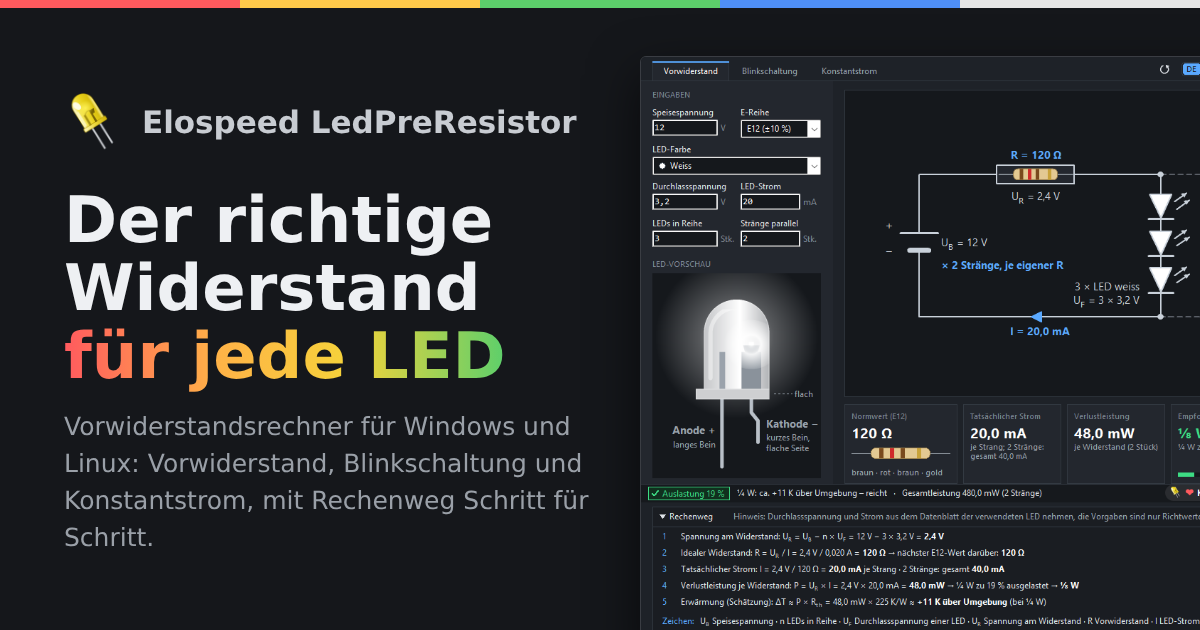
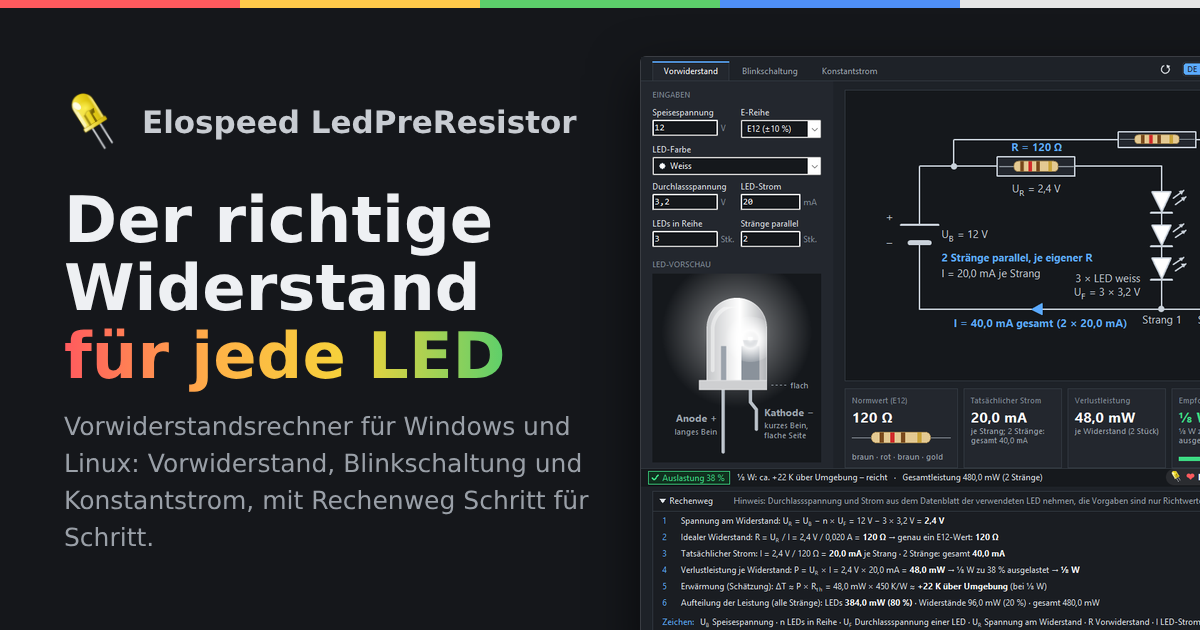
Projektseite: Vorschaubilder und Bildtexte 2.5.2

diff --git a/site/index.html b/site/index.html
@@ -94,7 +94,7 @@
     </ul>
     <figure class="shot hero-shot">
       <div class="bar"><img src="img/icon-32.png" alt=""><span>LedPreResistor · Elospeed 2.5.2</span><i class="min"></i><i class="max"></i><i class="cls"></i></div>
-      <img src="img/ledpreresistor-main-en.png" width="900" height="842" alt="LedPreResistor main window: 12 V supply, three white LEDs in series, 20 mA, two strings in parallel. Schematic with 120 ohm resistor, three LED symbols and a dashed second string marked times 2, and the calculation step by step">
+      <img src="img/ledpreresistor-main-en.png" width="900" height="842" alt="LedPreResistor main window: 12 V supply, three white LEDs in series, 20 mA, two strings in parallel. Schematic with both strings, each with a 120 ohm resistor and three LEDs, 20 mA per string and 40 mA in total, and the calculation steps below">
     </figure>
     <figcaption>English and German interface: it follows your Windows language, and the DE/EN switch at the top right changes it at any time.</figcaption>
   </div>
@@ -131,7 +131,7 @@
     </div>
     <figure class="shot">
       <div class="bar"><img src="img/icon-32.png" alt=""><span>LedPreResistor · Elospeed 2.5.2</span><i class="min"></i><i class="max"></i><i class="cls"></i></div>
-      <img src="img/ledpreresistor-warning-en.png" width="900" height="842" alt="LedPreResistor with 9 V, red LED, 25 mA: 330 ohm, 148.5 mW, a quarter watt resistor would be 59 percent loaded, the status bar shows a yellow warning and recommends half a watt" loading="lazy">
+      <img src="img/ledpreresistor-warning-en.png" width="900" height="842" alt="LedPreResistor with 9 V, red LED, 25 mA: 330 ohm, 148.5 mW, half a watt recommended and loaded to 30 percent; a quarter watt resistor would be loaded to 59 percent" loading="lazy">
     </figure>
   </div>
 </section>
@@ -152,7 +152,7 @@
     </div>
     <figure class="shot">
       <div class="bar"><img src="img/icon-32.png" alt=""><span>LedPreResistor · Elospeed 2.5.2</span><i class="min"></i><i class="max"></i><i class="cls"></i></div>
-      <img src="img/ledpreresistor-blink-en.png" width="900" height="842" alt="LedPreResistor blink circuit tab: NE555 astable with R1 1 kilohm, R2 68 kilohm and 10 microfarad at 12 V, 1.05 Hz, 50.4 percent duty cycle, series resistor 390 ohm for a white LED, schematic and calculation steps" loading="lazy">
+      <img src="img/ledpreresistor-blink-en.png" width="900" height="842" alt="LedPreResistor blink circuit tab: NE555 astable with R1 1 kilohm, R2 68 kilohm and a 10 microfarad / 16 V capacitor at 12 V, 1.05 Hz, 50.4 percent duty cycle, series resistor 390 ohm for a white LED, schematic and calculation steps" loading="lazy">
     </figure>
   </div>
 </section>

diff --git a/site/de/index.html b/site/de/index.html
@@ -95,7 +95,7 @@
     </ul>
     <figure class="shot hero-shot">
       <div class="bar"><img src="../img/icon-32.png" alt=""><span>LedPreResistor · Elospeed 2.5.2</span><i class="min"></i><i class="max"></i><i class="cls"></i></div>
-      <img src="../img/ledpreresistor-main.png" width="900" height="842" alt="Hauptfenster von LedPreResistor: 12 V, drei weisse LEDs in Reihe, 20 mA, zwei Stränge parallel. Schaltplan mit 120-Ohm-Widerstand, drei LED-Symbolen und gestricheltem zweitem Strang mit mal 2, darunter der Rechenweg">
+      <img src="../img/ledpreresistor-main.png" width="900" height="842" alt="Hauptfenster von LedPreResistor: 12 V, drei weisse LEDs in Reihe, 20 mA, zwei Stränge parallel. Schaltplan mit beiden Strängen, je 120-Ohm-Widerstand und drei LEDs, 20 mA je Strang und 40 mA gesamt, darunter der Rechenweg">
     </figure>
   </div>
 </section>
@@ -131,7 +131,7 @@
     </div>
     <figure class="shot">
       <div class="bar"><img src="../img/icon-32.png" alt=""><span>LedPreResistor · Elospeed 2.5.2</span><i class="min"></i><i class="max"></i><i class="cls"></i></div>
-      <img src="../img/ledpreresistor-warning.png" width="900" height="842" alt="LedPreResistor mit 9 V, roter LED, 25 mA: 330 Ohm, 148,5 mW, ein Viertelwatt-Widerstand wäre zu 59 Prozent ausgelastet, die Statuszeile warnt gelb und empfiehlt ein halbes Watt" loading="lazy">
+      <img src="../img/ledpreresistor-warning.png" width="900" height="842" alt="LedPreResistor mit 9 V, roter LED, 25 mA: 330 Ohm, 148,5 mW, empfohlen ein halbes Watt, zu 30 Prozent ausgelastet; ein Viertelwatt-Widerstand wäre zu 59 Prozent ausgelastet" loading="lazy">
     </figure>
   </div>
 </section>
@@ -152,7 +152,7 @@
     </div>
     <figure class="shot">
       <div class="bar"><img src="../img/icon-32.png" alt=""><span>LedPreResistor · Elospeed 2.5.2</span><i class="min"></i><i class="max"></i><i class="cls"></i></div>
-      <img src="../img/ledpreresistor-blink.png" width="900" height="842" alt="LedPreResistor Reiter Blinkschaltung: NE555 astabil mit R1 1 Kiloohm, R2 68 Kiloohm und 10 Mikrofarad an 12 V, 1,05 Hz, Tastgrad 50,4 Prozent, Vorwiderstand 390 Ohm für eine weisse LED, Schaltplan und Rechenweg" loading="lazy">
+      <img src="../img/ledpreresistor-blink.png" width="900" height="842" alt="LedPreResistor Reiter Blinkschaltung: NE555 astabil mit R1 1 Kiloohm, R2 68 Kiloohm und Elko 10 Mikrofarad / 16 V an 12 V, 1,05 Hz, Tastgrad 50,4 Prozent, Vorwiderstand 390 Ohm für eine weisse LED, Schaltplan und Rechenweg" loading="lazy">
     </figure>
   </div>
 </section>

diff --git a/LIESMICH.md b/LIESMICH.md
@@ -6,7 +6,7 @@
 
 **Webseite:** [elospeed.github.io/LedPreResistor/de](https://elospeed.github.io/LedPreResistor/de/) · **Download:** [neuestes Release](https://github.com/Elospeed/LedPreResistor/releases/latest)
 
-![Hauptfenster von LedPreResistor: 12 V, drei weisse LEDs in Reihe, zwei Stränge parallel, 20 mA → 120 Ω](site/img/ledpreresistor-main.png)
+![Hauptfenster von LedPreResistor: 12 V, drei weisse LEDs in Reihe, zwei Stränge parallel, jeder mit eigenem 120-Ω-Widerstand](site/img/ledpreresistor-main.png)
 
 LedPreResistor berechnet den Vorwiderstand für eine oder mehrere LEDs. Es ist die Neuauflage der Freeware *LED Pre-Resistor* (Delphi 7, 2004), komplett neu gebaut in Lazarus: eine einzelne 64-Bit-Windows-EXE, ohne Installation, ohne Zusatzpakete. Seit 2.2 gibt es auch eine eigene **Linux**-Version.
 

diff --git a/README.md b/README.md
@@ -6,7 +6,7 @@
 
 **Website:** [elospeed.github.io/LedPreResistor](https://elospeed.github.io/LedPreResistor/) · **Download:** [latest release](https://github.com/Elospeed/LedPreResistor/releases/latest)
 
-![LedPreResistor main window: 12 V, three white LEDs in series, two strings in parallel, 20 mA → 120 Ω](site/img/ledpreresistor-main-en.png)
+![LedPreResistor main window: 12 V, three white LEDs in series, two strings in parallel, each with its own 120 Ω resistor](site/img/ledpreresistor-main-en.png)
 
 LedPreResistor calculates the series resistor for one or more LEDs. It is the new edition of the freeware tool *LED Pre-Resistor* (Delphi 7, 2004), rebuilt from scratch in Lazarus: a single 64-bit Windows exe, no installer, no extra packages. Since 2.2 there is also a native **Linux** version.
 
